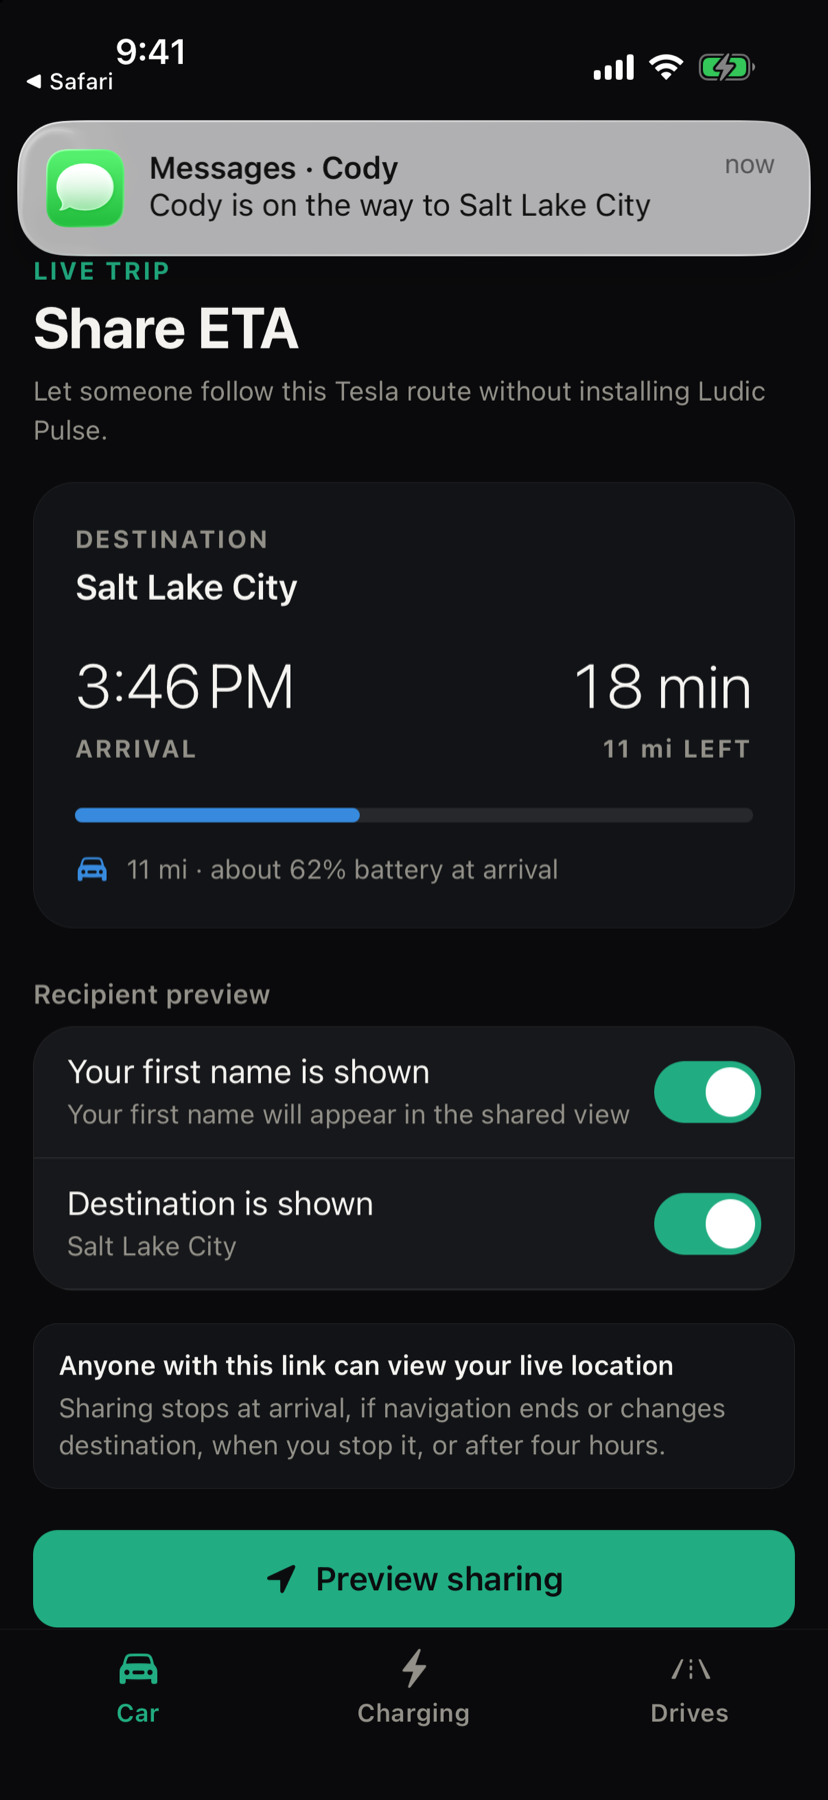
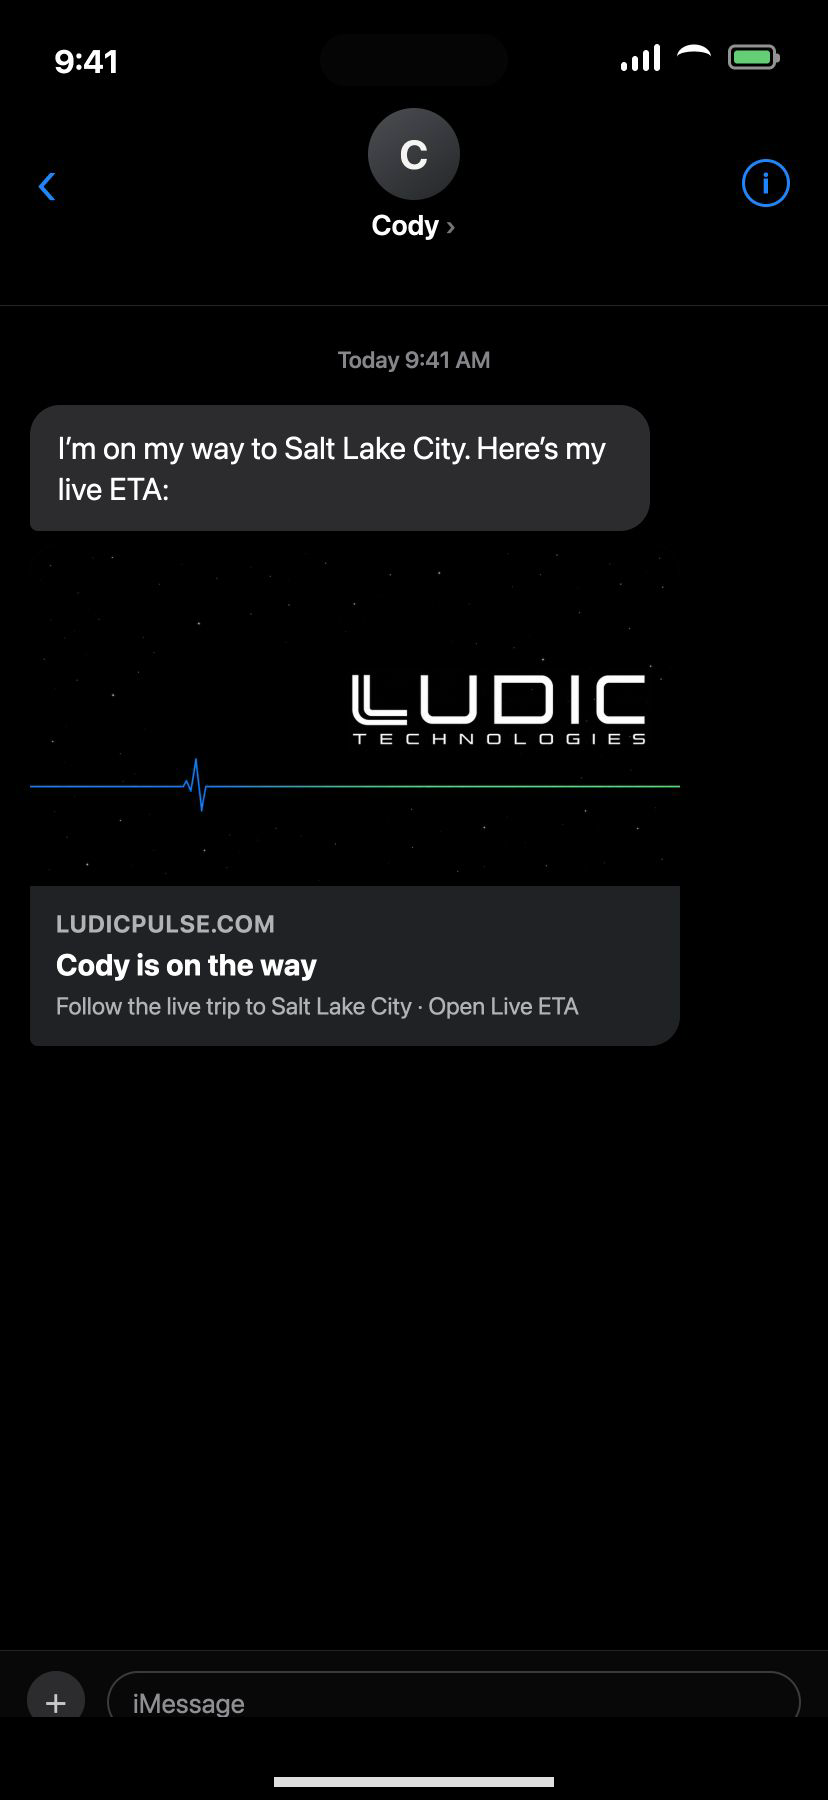
Show Shared ETA inside Messages

diff --git a/terms/index.html b/terms/index.html
@@ -1,7 +1,7 @@
 <!doctype html>
 <html lang="en"><head><meta charset="utf-8"><meta name="viewport" content="width=device-width,initial-scale=1">
 <meta name="description" content="Terms for the Ludic Pulse iOS app and cloud service."><meta name="color-scheme" content="dark">
-<link rel="icon" href="data:,"><title>Terms · Ludic Pulse</title><link rel="stylesheet" href="/styles.css?v=20260829-carousel-10-v1"><script defer src="/site.js?v=20260829-carousel-10-v1"></script></head><body><a class="skip-link" href="#main">Skip to content</a><header class="site-header" data-header><div class="nav-shell"><a class="brand" href="/" aria-label="Ludic Technologies home"><img src="/assets/ludic-technologies-wordmark.png" alt="Ludic Technologies" width="1130" height="302"></a><div class="nav-actions"><nav id="site-nav" class="site-nav" aria-label="Main navigation" data-menu><a href="/">Pulse</a><a href="/hub/">Hub <span class="nav-note">Upcoming</span></a><a href="/support/">Support</a></nav><a class="nav-beta" href="/beta/">Join beta</a><button class="menu-button" type="button" aria-expanded="false" aria-controls="site-nav" data-menu-button><span class="sr-only">Open navigation</span><span></span><span></span></button></div></div></header><main id="main" class="content-main" tabindex="-1"><p class="eyebrow">Legal</p><h1>Ludic Pulse Terms of Use</h1><p class="sub">Effective August 16, 2026 · United States beta</p>
+<link rel="icon" href="data:,"><title>Terms · Ludic Pulse</title><link rel="stylesheet" href="/styles.css?v=20260829-message-thread-v1"><script defer src="/site.js?v=20260829-message-thread-v1"></script></head><body><a class="skip-link" href="#main">Skip to content</a><header class="site-header" data-header><div class="nav-shell"><a class="brand" href="/" aria-label="Ludic Technologies home"><img src="/assets/ludic-technologies-wordmark.png" alt="Ludic Technologies" width="1130" height="302"></a><div class="nav-actions"><nav id="site-nav" class="site-nav" aria-label="Main navigation" data-menu><a href="/">Pulse</a><a href="/hub/">Hub <span class="nav-note">Upcoming</span></a><a href="/support/">Support</a></nav><a class="nav-beta" href="/beta/">Join beta</a><button class="menu-button" type="button" aria-expanded="false" aria-controls="site-nav" data-menu-button><span class="sr-only">Open navigation</span><span></span><span></span></button></div></div></header><main id="main" class="content-main" tabindex="-1"><p class="eyebrow">Legal</p><h1>Ludic Pulse Terms of Use</h1><p class="sub">Effective August 16, 2026 · United States beta</p>
 <h2>Agreement</h2><p>These Terms are an agreement between you and Ludic Technologies LLC for your use of Ludic Pulse. By using Ludic Pulse, you agree to these Terms and the <a href="/privacy/">Privacy Policy</a>. Apple's Standard Licensed Application End User License Agreement also applies to the iOS app. If you do not agree, do not use Ludic Pulse.</p>
 <h2>Eligibility and authorization</h2><p>You must be at least 18 and authorized to access every Tesla account, vehicle, charging location, and network you connect. Do not use another person's vehicle data or issue commands without permission.</p>
 <h2>Independent service</h2><p>Ludic Pulse is an independent third-party client. It is not affiliated with, endorsed by, or sponsored by Tesla, Inc. Tesla may change or discontinue its services, permissions, pricing, commands, or vehicle capabilities at any time.</p>

diff --git a/privacy/index.html b/privacy/index.html
@@ -1,7 +1,7 @@
 <!doctype html>
 <html lang="en"><head><meta charset="utf-8"><meta name="viewport" content="width=device-width,initial-scale=1">
 <meta name="description" content="How Ludic Pulse collects, uses, retains, and protects account, vehicle, location, and diagnostic data."><meta name="color-scheme" content="dark">
-<link rel="icon" href="data:,"><title>Privacy · Ludic Pulse</title><link rel="stylesheet" href="/styles.css?v=20260829-carousel-10-v1"><script defer src="/site.js?v=20260829-carousel-10-v1"></script></head><body><a class="skip-link" href="#main">Skip to content</a><header class="site-header" data-header><div class="nav-shell"><a class="brand" href="/" aria-label="Ludic Technologies home"><img src="/assets/ludic-technologies-wordmark.png" alt="Ludic Technologies" width="1130" height="302"></a><div class="nav-actions"><nav id="site-nav" class="site-nav" aria-label="Main navigation" data-menu><a href="/">Pulse</a><a href="/hub/">Hub <span class="nav-note">Upcoming</span></a><a href="/support/">Support</a></nav><a class="nav-beta" href="/beta/">Join beta</a><button class="menu-button" type="button" aria-expanded="false" aria-controls="site-nav" data-menu-button><span class="sr-only">Open navigation</span><span></span><span></span></button></div></div></header><main id="main" class="content-main" tabindex="-1"><p class="eyebrow">Privacy</p><h1>Ludic Pulse Privacy Policy</h1>
+<link rel="icon" href="data:,"><title>Privacy · Ludic Pulse</title><link rel="stylesheet" href="/styles.css?v=20260829-message-thread-v1"><script defer src="/site.js?v=20260829-message-thread-v1"></script></head><body><a class="skip-link" href="#main">Skip to content</a><header class="site-header" data-header><div class="nav-shell"><a class="brand" href="/" aria-label="Ludic Technologies home"><img src="/assets/ludic-technologies-wordmark.png" alt="Ludic Technologies" width="1130" height="302"></a><div class="nav-actions"><nav id="site-nav" class="site-nav" aria-label="Main navigation" data-menu><a href="/">Pulse</a><a href="/hub/">Hub <span class="nav-note">Upcoming</span></a><a href="/support/">Support</a></nav><a class="nav-beta" href="/beta/">Join beta</a><button class="menu-button" type="button" aria-expanded="false" aria-controls="site-nav" data-menu-button><span class="sr-only">Open navigation</span><span></span><span></span></button></div></div></header><main id="main" class="content-main" tabindex="-1"><p class="eyebrow">Privacy</p><h1>Ludic Pulse Privacy Policy</h1>
 <p class="sub">Effective August 29, 2026 · United States beta</p>
 <div class="card"><strong>The short version</strong><p>You can create a Ludic account with Apple and separately authorize Tesla vehicle access. We do not receive your Apple or Tesla password, sell personal data, run advertising, or use data to track you across other companies' apps or websites. Exact route history is optional.</p></div>
 <h2>Who this policy covers</h2><p>This policy explains how Ludic Technologies LLC provides Ludic Pulse and handles data in the iOS app, cloud service, and Live Activities. The service is currently offered to US beta users and is not directed to children under 13.</p>

diff --git a/index.html b/index.html
@@ -20,8 +20,8 @@
   <link rel="preload" href="/assets/ludic-technologies-wordmark.png" as="image">
   <link rel="preload" href="/assets/screens/showcase/01-car.png" as="image">
   <script>document.documentElement.classList.add('js')</script>
-  <link rel="stylesheet" href="/styles.css?v=20260829-carousel-10-v1">
-  <script defer src="/site.js?v=20260829-carousel-10-v1"></script>
+  <link rel="stylesheet" href="/styles.css?v=20260829-message-thread-v1">
+  <script defer src="/site.js?v=20260829-message-thread-v1"></script>
   <title>Ludic Pulse — Tesla status, drives, charging, and ETA</title>
   <script type="application/ld+json">{"@context":"https://schema.org","@type":"SoftwareApplication","name":"Ludic Pulse","applicationCategory":"UtilitiesApplication","operatingSystem":"iOS","url":"https://ludicpulse.com/","publisher":{"@type":"Organization","name":"Ludic Technologies LLC"}}</script>
 </head>
@@ -64,7 +64,7 @@
             <img class="carousel-screen" data-screen-title="Charging session" src="/assets/screens/showcase/03-charging.png" alt="Ludic Pulse live charging session with battery, power, target, and ETA" width="828" height="1800" aria-hidden="true">
             <img class="carousel-screen" data-screen-title="Charging Live Activity" src="/assets/screens/showcase/04-charging-lockscreen.jpg" alt="iPhone Lock Screen showing the Ludic Pulse charging Live Activity" width="828" height="1800" aria-hidden="true">
             <img class="carousel-screen" data-screen-title="Shared ETA" src="/assets/screens/showcase/05-share-eta.png" alt="Ludic Pulse Shared ETA screen with recipient privacy controls" width="828" height="1800" aria-hidden="true">
-            <img class="carousel-screen" data-screen-title="ETA message" src="/assets/screens/showcase/06-share-eta-message.png" alt="Ludic Pulse Shared ETA screen with the iMessage delivery banner" width="828" height="1800" aria-hidden="true">
+            <img class="carousel-screen" data-screen-title="ETA message thread" src="/assets/screens/showcase/06-share-eta-message.png" alt="Messages conversation showing an incoming Ludic Pulse live ETA link preview" width="828" height="1800" aria-hidden="true">
             <img class="carousel-screen" data-screen-title="Recipient route" src="/assets/screens/showcase/07-recipient-eta.png" alt="Shared ETA recipient page showing arrival time and an estimated route" width="828" height="1800" aria-hidden="true">
             <img class="carousel-screen" data-screen-title="Driving Live Activity" src="/assets/screens/showcase/08-driving-lockscreen.jpg" alt="iPhone Lock Screen showing the Ludic Pulse driving Live Activity" width="828" height="1800" aria-hidden="true">
             <img class="carousel-screen" data-screen-title="Active destination" src="/assets/screens/showcase/09-destination.png" alt="Ludic Pulse destination screen showing route status and arrival details" width="828" height="1800" aria-hidden="true">

diff --git a/pulse/index.html b/pulse/index.html
@@ -20,8 +20,8 @@
   <link rel="preload" href="/assets/ludic-technologies-wordmark.png" as="image">
   <link rel="preload" href="/assets/screens/showcase/01-car.png" as="image">
   <script>document.documentElement.classList.add('js')</script>
-  <link rel="stylesheet" href="/styles.css?v=20260829-carousel-10-v1">
-  <script defer src="/site.js?v=20260829-carousel-10-v1"></script>
+  <link rel="stylesheet" href="/styles.css?v=20260829-message-thread-v1">
+  <script defer src="/site.js?v=20260829-message-thread-v1"></script>
   <title>Ludic Pulse — Tesla status, drives, charging, and ETA</title>
   <script type="application/ld+json">{"@context":"https://schema.org","@type":"SoftwareApplication","name":"Ludic Pulse","applicationCategory":"UtilitiesApplication","operatingSystem":"iOS","url":"https://ludicpulse.com/","publisher":{"@type":"Organization","name":"Ludic Technologies LLC"}}</script>
 </head>
@@ -64,7 +64,7 @@
             <img class="carousel-screen" data-screen-title="Charging session" src="/assets/screens/showcase/03-charging.png" alt="Ludic Pulse live charging session with battery, power, target, and ETA" width="828" height="1800" aria-hidden="true">
             <img class="carousel-screen" data-screen-title="Charging Live Activity" src="/assets/screens/showcase/04-charging-lockscreen.jpg" alt="iPhone Lock Screen showing the Ludic Pulse charging Live Activity" width="828" height="1800" aria-hidden="true">
             <img class="carousel-screen" data-screen-title="Shared ETA" src="/assets/screens/showcase/05-share-eta.png" alt="Ludic Pulse Shared ETA screen with recipient privacy controls" width="828" height="1800" aria-hidden="true">
-            <img class="carousel-screen" data-screen-title="ETA message" src="/assets/screens/showcase/06-share-eta-message.png" alt="Ludic Pulse Shared ETA screen with the iMessage delivery banner" width="828" height="1800" aria-hidden="true">
+            <img class="carousel-screen" data-screen-title="ETA message thread" src="/assets/screens/showcase/06-share-eta-message.png" alt="Messages conversation showing an incoming Ludic Pulse live ETA link preview" width="828" height="1800" aria-hidden="true">
             <img class="carousel-screen" data-screen-title="Recipient route" src="/assets/screens/showcase/07-recipient-eta.png" alt="Shared ETA recipient page showing arrival time and an estimated route" width="828" height="1800" aria-hidden="true">
             <img class="carousel-screen" data-screen-title="Driving Live Activity" src="/assets/screens/showcase/08-driving-lockscreen.jpg" alt="iPhone Lock Screen showing the Ludic Pulse driving Live Activity" width="828" height="1800" aria-hidden="true">
             <img class="carousel-screen" data-screen-title="Active destination" src="/assets/screens/showcase/09-destination.png" alt="Ludic Pulse destination screen showing route status and arrival details" width="828" height="1800" aria-hidden="true">

diff --git a/beta/index.html b/beta/index.html
@@ -19,8 +19,8 @@
   <link rel="icon" href="data:,">
   <link rel="preload" href="/assets/ludic-technologies-wordmark.png" as="image">
   <script>document.documentElement.classList.add('js')</script>
-  <link rel="stylesheet" href="/styles.css?v=20260829-carousel-10-v1">
-  <script defer src="/site.js?v=20260829-carousel-10-v1"></script>
+  <link rel="stylesheet" href="/styles.css?v=20260829-message-thread-v1">
+  <script defer src="/site.js?v=20260829-message-thread-v1"></script>
   <title>Join the private beta · Ludic Pulse</title>
 </head>
 <body>

diff --git a/hub/index.html b/hub/index.html
@@ -15,8 +15,8 @@
   <link rel="canonical" href="https://ludicpulse.com/hub/">
   <link rel="icon" href="data:,">
   <script>document.documentElement.classList.add('js')</script>
-  <link rel="stylesheet" href="/styles.css?v=20260829-carousel-10-v1">
-  <script defer src="/site.js?v=20260829-carousel-10-v1"></script>
+  <link rel="stylesheet" href="/styles.css?v=20260829-message-thread-v1">
+  <script defer src="/site.js?v=20260829-message-thread-v1"></script>
   <title>Ludic Hub — Keep dashcam footage up to x10 longer</title>
 </head>
 <body>

diff --git a/support/index.html b/support/index.html
@@ -7,8 +7,8 @@
   <meta name="theme-color" content="#050506">
   <meta name="color-scheme" content="dark">
   <link rel="icon" href="data:,">
-  <link rel="stylesheet" href="/styles.css?v=20260829-carousel-10-v1">
-  <script defer src="/site.js?v=20260829-carousel-10-v1"></script>
+  <link rel="stylesheet" href="/styles.css?v=20260829-message-thread-v1">
+  <script defer src="/site.js?v=20260829-message-thread-v1"></script>
   <title>Support · Ludic Pulse</title>
 </head>
 <body>
